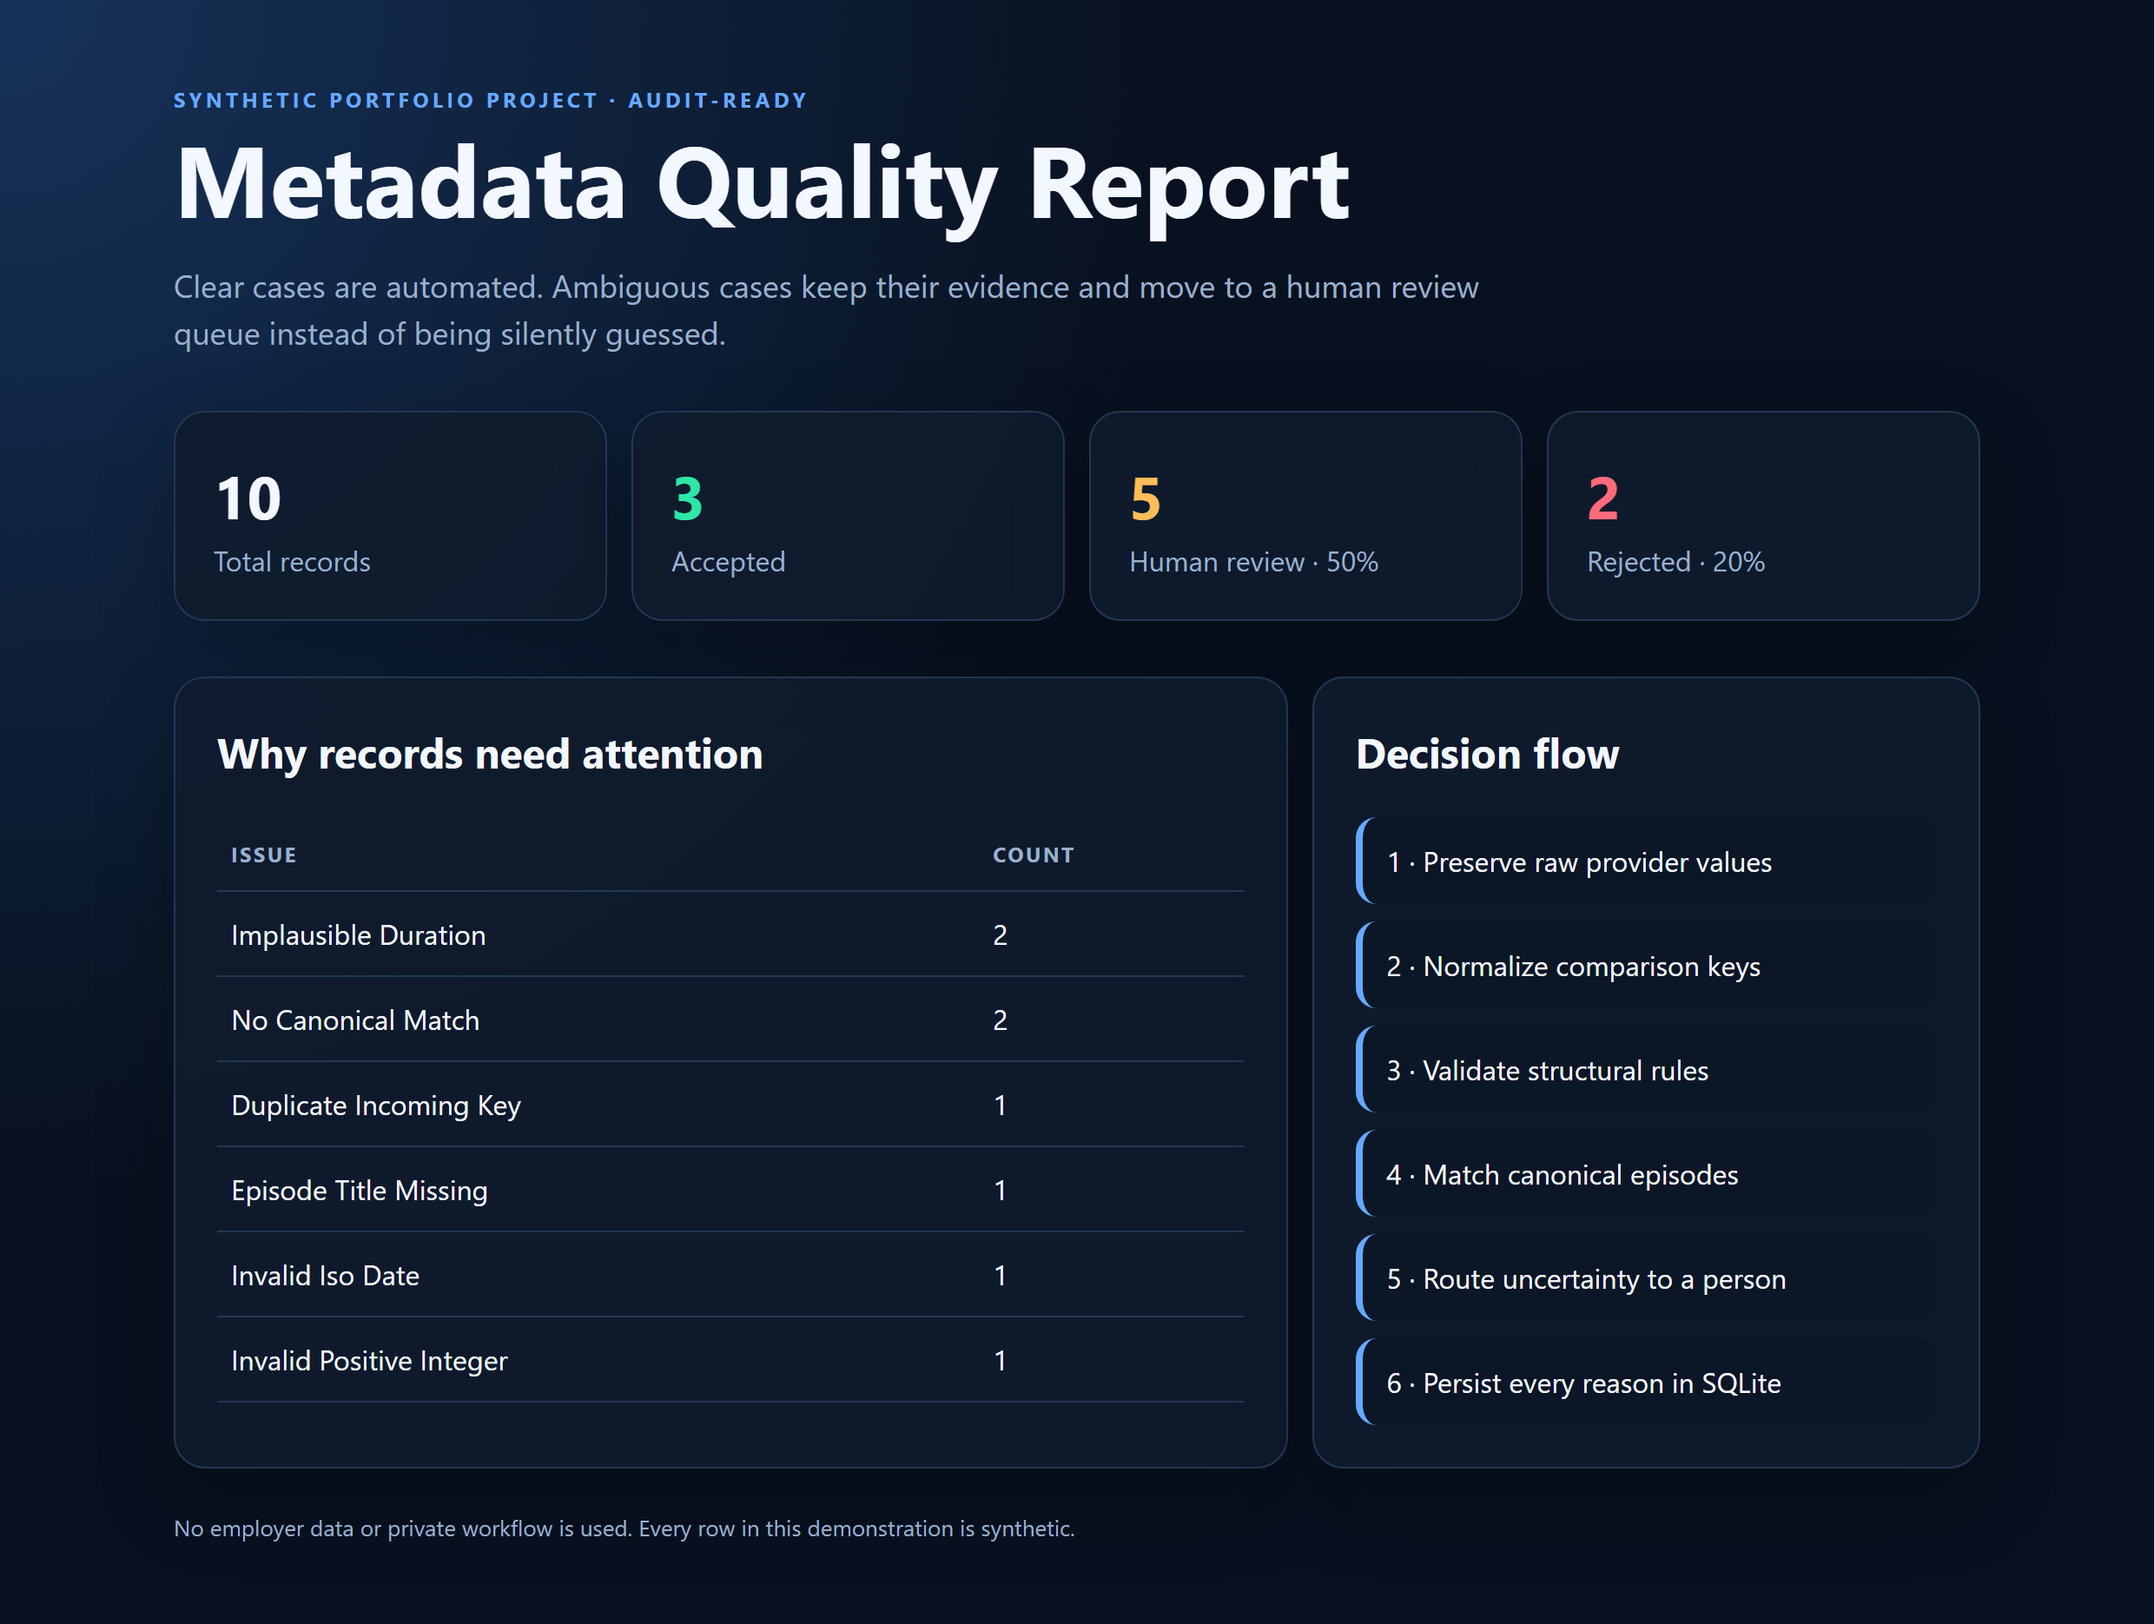
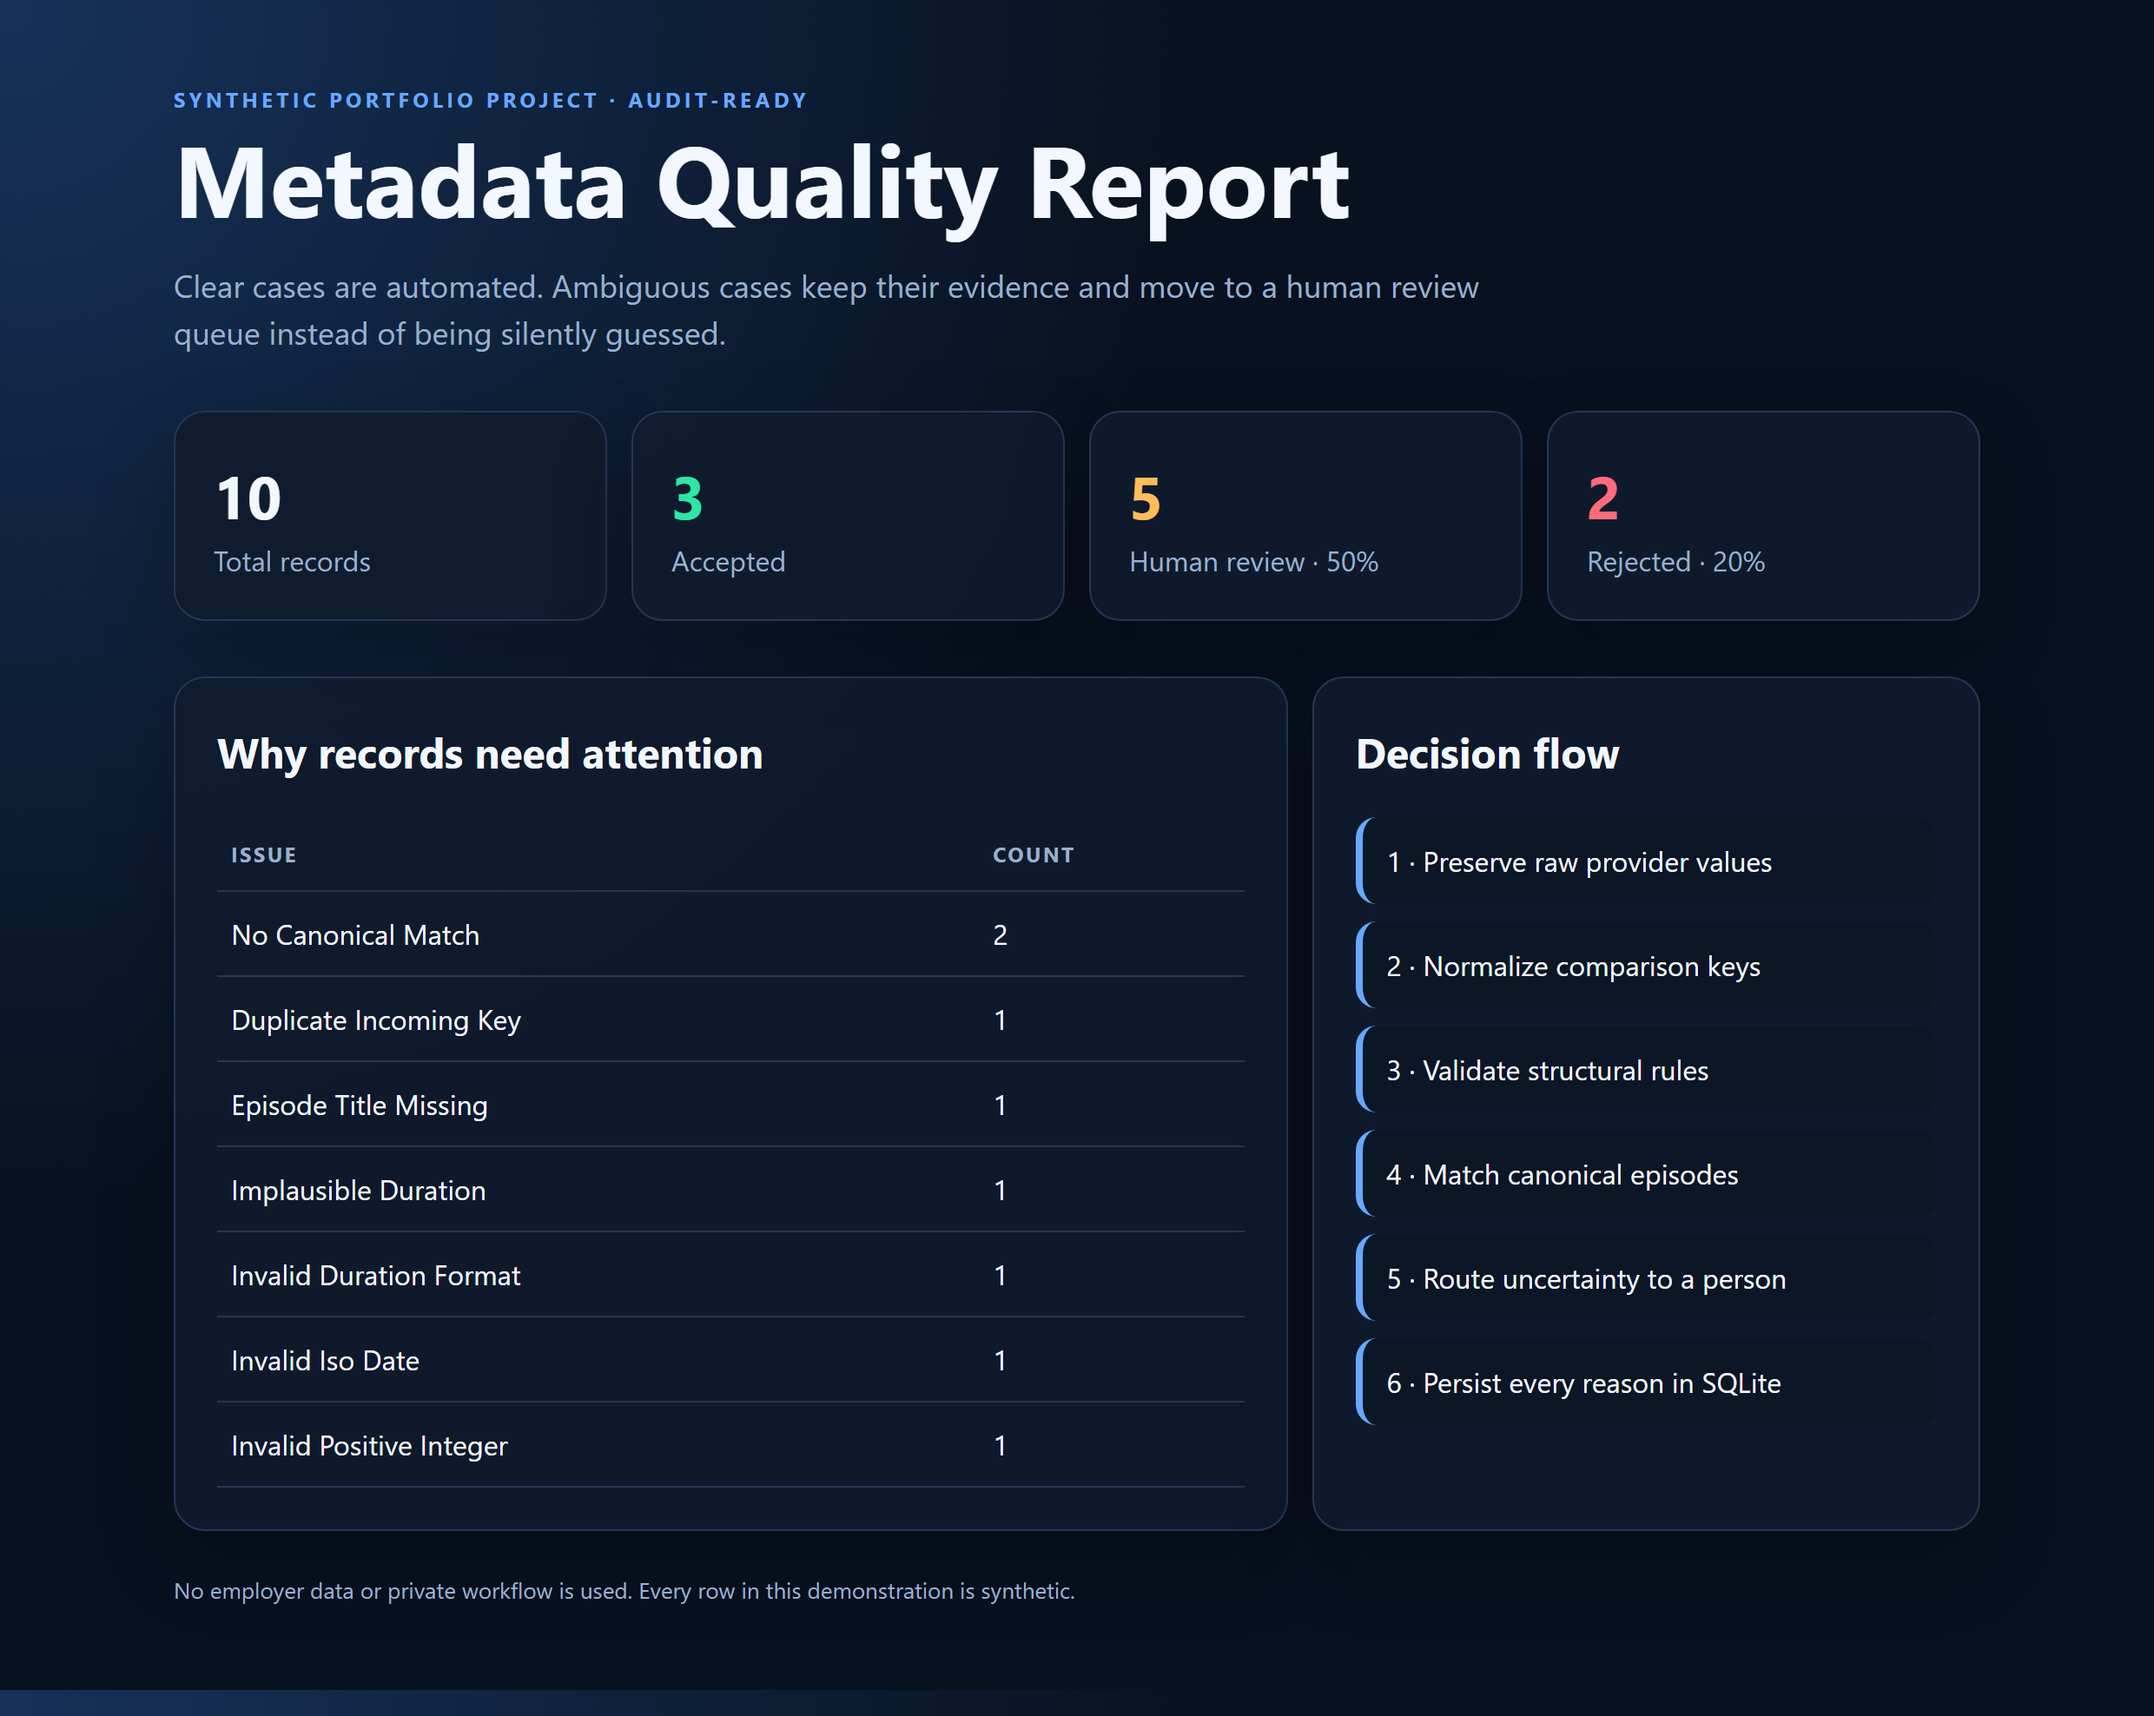
fix: separate an unreadable duration from an implausible one
Both cases produced IMPLAUSIBLE_DURATION, which told a reviewer that
45000 and "not_known" failed for the same reason. They did not, and the
reviewer would look in the wrong place. The unreadable case now has its
own code, and the dashboard shows the two separately.

Record counts are unchanged: 10 records as 3 accepted, 5 review, 2
rejected and 8 issues.

diff --git a/src/metadata_quality/quality.py b/src/metadata_quality/quality.py
@@ -107,11 +107,27 @@ def validate_record(row: dict[str, str], row_number: int) -> list[QualityIssue]:
 
     duration = normalize_text(row.get("duration_minutes"))
     if duration:
+        # "Unreadable" and "out of range" are different problems and deserve
+        # different codes. Collapsing them would tell a reviewer that 45000 and
+        # "not_known" failed for the same reason, which is not true and sends
+        # them looking in the wrong place.
         try:
-            duration_number = int(duration)
+            duration_number: int | None = int(duration)
         except ValueError:
-            duration_number = 0
-        if not 1 <= duration_number <= 300:
+            duration_number = None
+        if duration_number is None:
+            issues.append(
+                _issue(
+                    record_id,
+                    row_number,
+                    "WARNING",
+                    "INVALID_DURATION_FORMAT",
+                    "duration_minutes",
+                    duration,
+                    "duration_minutes is not a number, so its value cannot be checked.",
+                )
+            )
+        elif not 1 <= duration_number <= 300:
             issues.append(
                 _issue(
                     record_id,

diff --git a/tests/test_quality.py b/tests/test_quality.py
@@ -70,6 +70,21 @@ class QualityRuleTests(unittest.TestCase):
         codes = {issue.issue_code for issue in validate_record(row, 1)}
         self.assertIn("INVALID_ISO_DATE", codes)
 
+    def test_unreadable_and_out_of_range_durations_get_different_codes(self) -> None:
+        """A reviewer must not be told that 45000 and "not_known" failed alike."""
+        base = {
+            "provider_record_id": "P300",
+            "series_title": "Deep Orbit",
+            "season_number": "1",
+            "episode_number": "1",
+            "episode_title": "First Light",
+            "air_date": "2026-01-05",
+        }
+        unreadable = {issue.issue_code for issue in validate_record({**base, "duration_minutes": "not_known"}, 1)}
+        out_of_range = {issue.issue_code for issue in validate_record({**base, "duration_minutes": "45000"}, 1)}
+        self.assertEqual(unreadable, {"INVALID_DURATION_FORMAT"})
+        self.assertEqual(out_of_range, {"IMPLAUSIBLE_DURATION"})
+
 
 if __name__ == "__main__":
     unittest.main()
